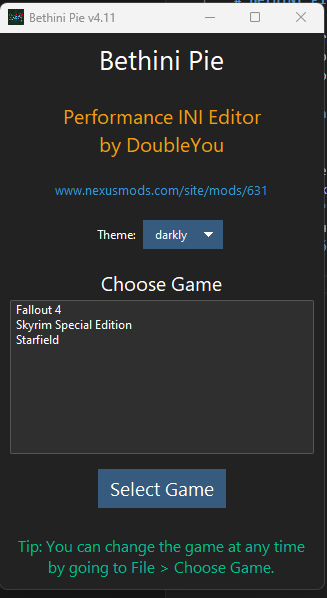
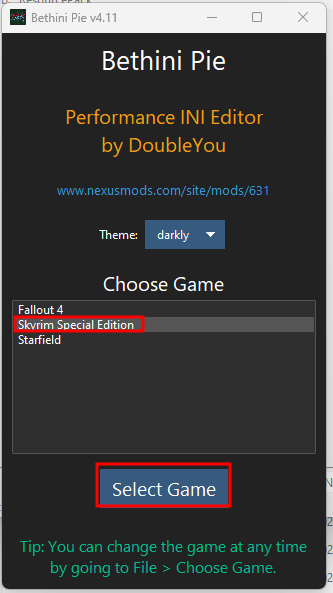
add more info about MO2 and bethini Pie

diff --git a/bethini-pie.md b/bethini-pie.md
@@ -19,5 +19,9 @@
  <img src="./assets/bipie2.png"/>
 </div>
 
-7. Выберите *Fallout 4* и нажмите **Выбрать игру**.
-8. Затем выберите INI профиль, чтобы он указывал на профиль внутри MO2, а не в директории документы.
+7. Выберите *Skyrim Special Edition* и нажмите **Выбрать игру**.
+8. Затем выберите INI профиль, чтобы он указывал на профиль внутри MO2, а не в директории документы. Путь выглядит так: `MO2/profiles/Default/skyrim.ini`.
+
+<div align="center">
+ <img src="./assets/bipie4.png"/>
+</div>
